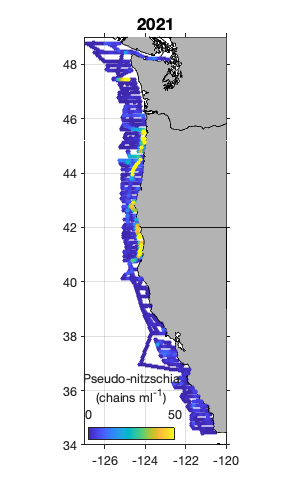
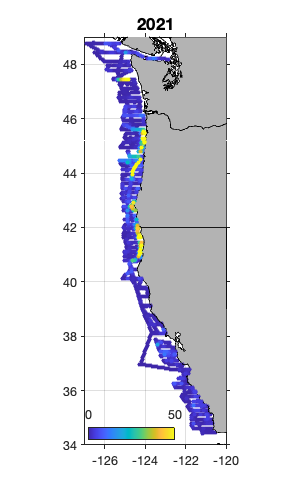
discrete samples

Changed region(s): [[0.27, 0.75, 0.6, 0.81]]

diff --git a/NOAA/Shimada/find_TopClasses_latitude.m b/NOAA/Shimada/find_TopClasses_latitude.m
@@ -4,7 +4,6 @@ filepath = '~/Documents/MATLAB/bloom-baby-bloom/';
 addpath(genpath('~/Documents/MATLAB/ifcb-analysis/')); % add new data to search path
 addpath(genpath(filepath)); % add new data to search path
 
-
 %% Shimada 2019 and 2021
 % load in lat lon coordinates
 I19=load([filepath 'NOAA/Shimada/Data/IFCB_underway_Shimada2019']);
@@ -56,7 +55,7 @@ clearvars id1 id2 val idx th fx_un total
 
 %% Find top classes for each latitude region
 % split into 4 equal sized regions
-n=5;
+n=4;
 d=(max(lat)-min(lat))./n;
 for i=1:n
     latmin=max(lat)-i*d;
@@ -65,6 +64,7 @@ for i=1:n
     region(i).latmax=latmax;
     region(i).idx=find(lat>=latmin & lat<latmax);
     region(i).label=['' num2str(round(region(i).latmin,1)) '-' num2str(round(region(i).latmax,1)) '^oN'];
+    region(i).MCnum=length(region(i).idx);  
 end
 
 % find top 30 classes
@@ -95,12 +95,25 @@ for i=1:length(region)
     region(i).class=region(i).class(idx);
 end
 
-% find classes present in at least 2 regions
-idx=find(classtotal>=2);
-TopClasses=class(idx);
-save([filepath 'NOAA/Shimada/Data/TopClasses_CCS'],'TopClasses');
+% % find classes present in at least 2 regions
+% idx=find(classtotal>=2);
+% TopClasses=class(idx);
+save([filepath 'NOAA/Shimada/Data/TopClasses_CCS'],'class');
 
 clearvars n d B i idx latmin latmax
+
+%%
+
+figure('Units','inches','Position',[1 1 3 3],'PaperPositionMode','auto');   
+bar([region.MCnum],'Barwidth',.5,'linestyle','none'); hold on
+set(gca,'xtick',1:length([region.MCnum]),...
+    'xticklabel', {region.label},'tickdir','out'); hold on
+ylabel('Number of annotated files')
+
+% set figure parameters
+print(gcf,'-dpng','-r100',[filepath 'NOAA/Shimada/Figs/ShimadaAnnotatedFiles.png']);
+hold off 
+
 
 %% plot
 [~,class_label ] = get_class_ind(class,'all', filepath);
@@ -110,7 +123,7 @@ b=bar([region.class],'stacked','Barwidth',1,'linestyle','none'); hold on
 set(gca,'ycolor','k','ytick',[],'xtick', 1:length(class_label),...
     'xticklabel', class_label,'tickdir','out'); hold on
 ylabel(['Present in top ' num2str(th) ' classes of region'])
-legend(b,region(1).label,region(2).label,region(3).label,region(4).label,region(5).label,'Location','eastoutside');
+legend(b,{region.label},'Location','eastoutside');
 
 % set figure parameters
 print(gcf,'-dpng','-r100',[filepath 'NOAA/Shimada/Figs/TopClasses_CCS.png']);

diff --git a/IFCB-Tools/find_discrete_samples.m b/IFCB-Tools/find_discrete_samples.m
@@ -1,0 +1,50 @@
+function [ ] = find_discrete_samples( datapath, summary_dir)
+%function [ ] = find_discrete_samples( datapath, summary_dir)
+%
+% finds discrete samples that have labels BS_trigger, Fl_trigger or FL_trigger
+% excludes data D20220518T190328_IFCB150 through  D20220520T163514_IFCB150
+% 
+% Alexis D. Fischer, NOAA, June 2022
+%%
+%Example inputs:
+%datapath = '~/Downloads/D20220518/'; %where to access data (hdr files)
+%summary_dir = '~/Documents/MATLAB/bloom-baby-bloom/IFCB-Data/BuddInlet/';
+
+addpath(genpath(datapath)); % add new data to search path
+addpath(genpath(summary_dir)); % add new data to search path
+
+%make sure input paths end with filesep
+if ~isequal(datapath(end), filesep)
+    datapath = [datapath filesep];
+end
+
+filelist = dir([datapath 'D*.hdr']);
+
+%calculate date
+matdate = IFCB_file2date({filelist.name});
+dt=datetime(matdate,'ConvertFrom','datenum');
+
+runtype={filelist.name}';
+filecomment={filelist.name}';
+for i = 1:length(filelist)
+    fullfilename = [datapath filelist(i).name];
+    disp(fullfilename);
+    hdr=IFCBxxx_readhdr2(fullfilename);
+    runtype{i}=hdr.runtype;
+    filecomment{i}=hdr.filecomment;   
+end
+
+% remove incorrect BS_trigger labels from filecomment
+% dates when I accidentally forgot to turn off file comment!
+idx=dt>=datetime(2022,05,18,19,03,28) & dt<=datetime(2022,05,20,16,35,14);
+filecomment(idx)={' '};
+
+% get filelist of discrete samples
+idx=contains(filecomment,'trigger');
+filename_discrete={filelist(idx).name}';
+triggertype=filecomment(idx);
+
+save([summary_dir 'DiscreteSampleIDs_BuddInlet'],'filename_discrete','triggertype');
+
+
+

diff --git a/IFCB-Tools/correct_filecomment_hdrfile.m b/IFCB-Tools/correct_filecomment_hdrfile.m
@@ -1,0 +1,22 @@
+%undo BS_trigger from D20220518T190328_IFCB150 through  D20220520T163514_IFCB150
+
+clear
+basepath='~/Downloads/D20220518/';
+filelist = dir([basepath 'D*.hdr']);
+filename = ({filelist.name})';
+
+dtIFCB=cellfun(@(x) x(2:16),filename,'UniformOutput',false);
+dt=datetime(cell2mat(dtIFCB),"InputFormat","yyyyMMdd'T'HHmmss");
+dt.Format='yyyy-MM-dd HH:mm:ss'  
+
+error_idx=find(dt>datetime(2022,05,18,19,03,28) & dt<datetime(2022,05,20,16,35,14))
+%%
+%for i=1:length(error_idx)
+i=6
+    hdrname = ([basepath filename{i}])    
+    hdr=IFCBxxx_readhdr2(hdrname)
+    filecomment=hdr.filecomment; 
+    tf=ismember('BS_trigger', filecomment);
+  %  if tf
+
+

diff --git a/IFCB-Tools/IFCBxxx_readhdr2.m b/IFCB-Tools/IFCBxxx_readhdr2.m
@@ -9,7 +9,7 @@ t = importdata(fullfilename,'', 150);
 if exist('status', 'var'), delete(filestr); end;
 ii = strmatch('runTime:', t);
     
-if ~isempty(ii),
+if ~isempty(ii)
     linestr = char(t(ii));  
     colonpos = findstr(':', linestr);
     hdr.runtime = str2num(linestr(colonpos(1)+1:end));
@@ -24,9 +24,9 @@ else
     spos = findstr('s', linestr);
     hdr.runtime = str2num(linestr(eqpos(1)+1:spos(1)-1));
     hdr.inhibittime = str2num(linestr(eqpos(2)+1:spos(2)-1));
-end;
+end
 ii=strmatch('runType:',t);
-if ~isempty(ii(2)),
+if ~isempty(ii(2))
     linestr = char(t(ii(2)));
     hdr.runtype=regexprep(linestr,'runType: ','');
 end

diff --git a/NOAA/Shimada/map_IFCB_Shimada_CCS.m b/NOAA/Shimada/map_IFCB_Shimada_CCS.m
@@ -51,7 +51,7 @@ else
 end
     colormap(parula); caxis(cax);
     axis([min(lon) max(lon) min(lat) max(lat)]);
-    h=colorbar('south'); h.Label.String = label; h.Label.FontSize = 12;               
+    h=colorbar('south'); %h.Label.String = label; h.Label.FontSize = 12;               
     hp=get(h,'pos'); 
     hp=[1.9*hp(1) .9*hp(2) .4*hp(3) .6*hp(4)]; % [left, bottom, width, height].
     set(h,'pos',hp,'xaxisloc','top','fontsize',9); 
